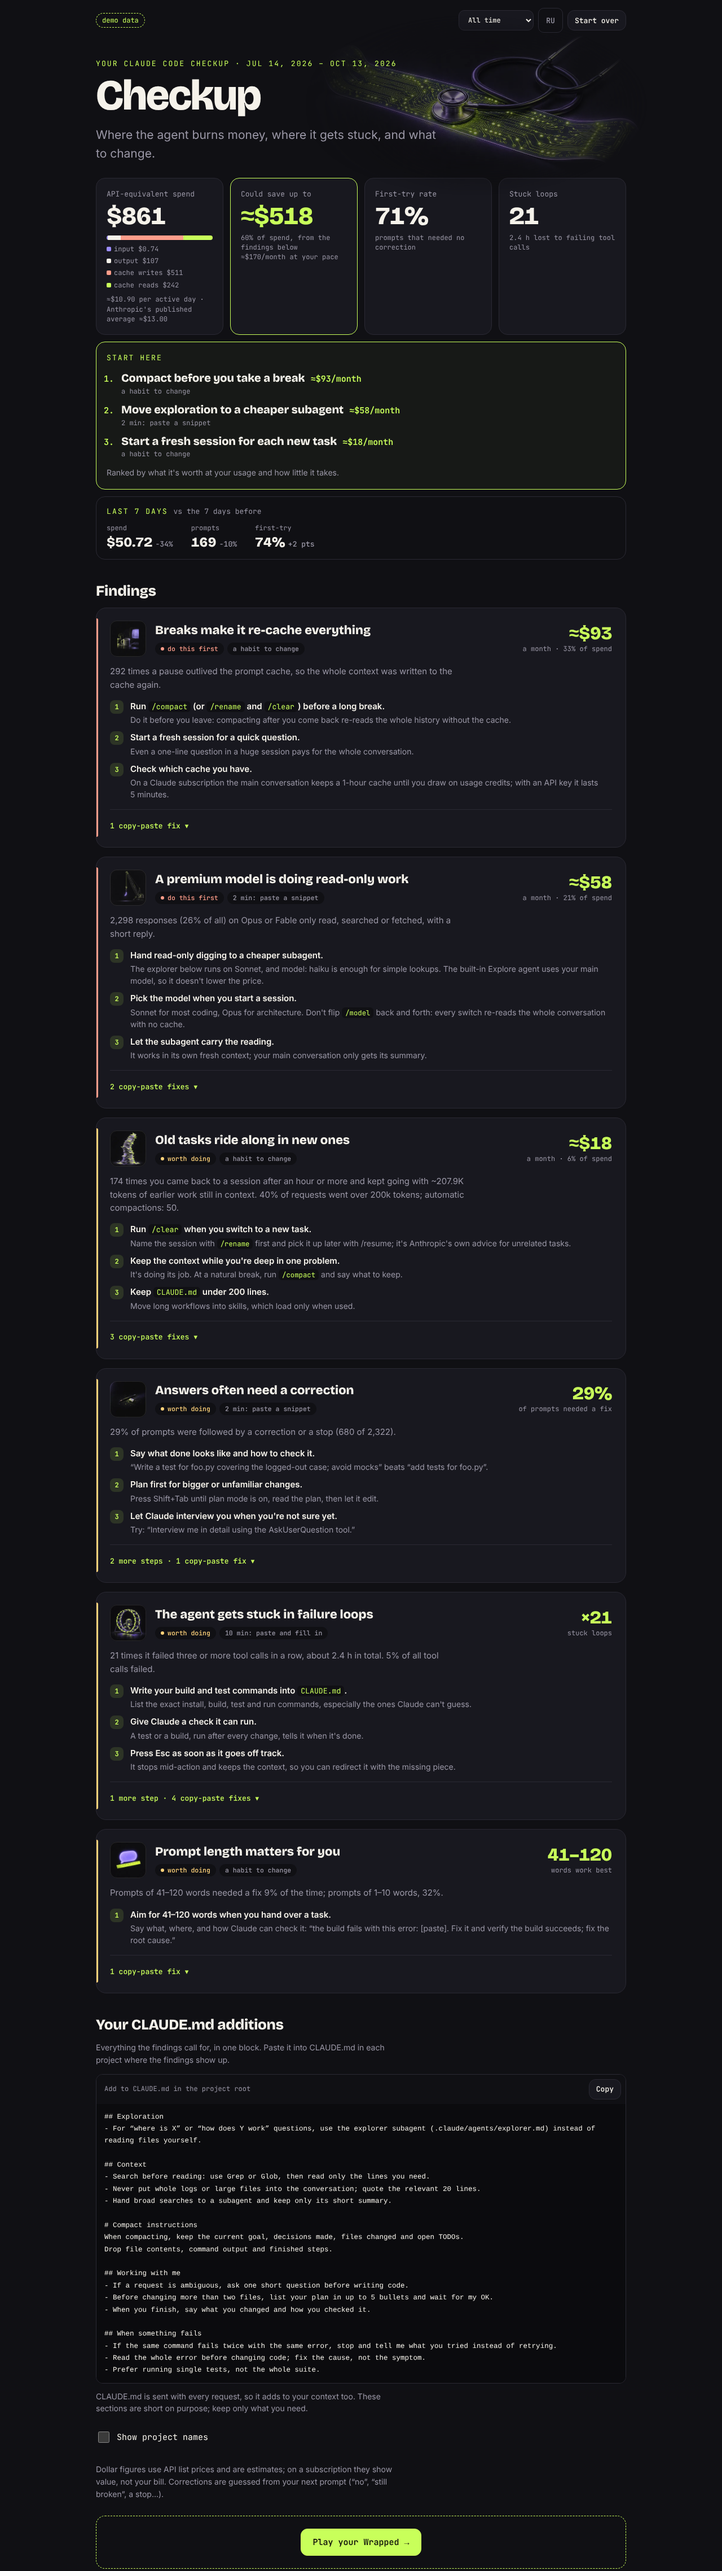
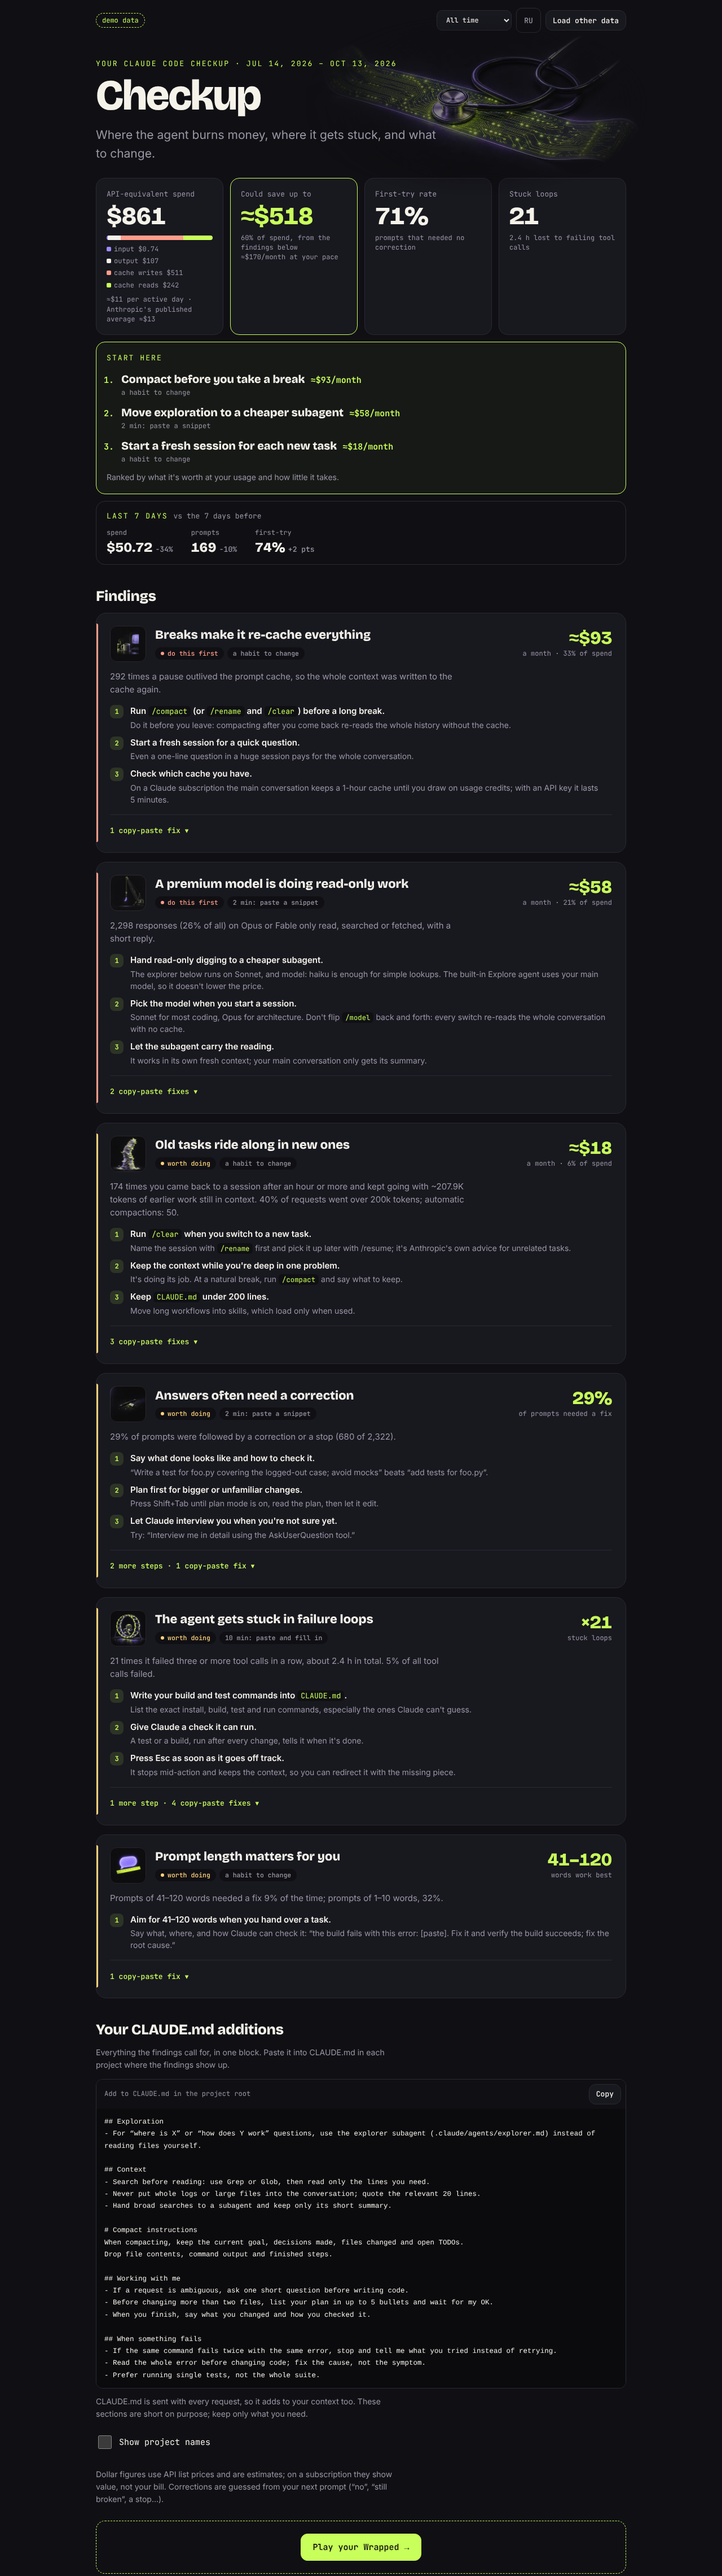
UI/UX pass: accessibility, copy and landing hierarchy
- Landmarks and heading order: report and story are main, one h1 per view
- Commands wrap instead of scrolling; larger targets for plan links, toggle and period
- Clearer landing copy, demo button moved up with a one-line hint, prose in Inter
- Fix the hidden-folder command that rendered empty, and the copy confirmation text
- Image outline on finding art, no press scale under reduced motion
- Refresh README screenshots

Claude-Session: https://claude.ai/code/session_01KKdcVECX1CrKS1fmTgwHWm

diff --git a/js/i18n.js b/js/i18n.js
@@ -3,21 +3,22 @@
 const EN = {
   title: "Claude Code Wrapped",
   tagline: "Where your agent burns money, and how to stop it.",
-  lead: "A checkup of your Claude Code transcripts: dollar figures for oversized context, cache misses and the wrong model, where the agent gets stuck, and concrete fixes. Then your Wrapped story to share.",
-  privacy: "Runs entirely in your browser. Nothing is uploaded.",
+  lead: "A checkup of your Claude Code transcripts: what old context, cache misses and model choice cost you in dollars, where the agent gets stuck, and the fix for each. Then a Wrapped story to share.",
+  privacy: "Runs on your computer. Nothing is uploaded.",
   pickFolder: "Choose ~/.claude/projects",
   pickFiles: "or pick .jsonl files",
   orDrop: "or drop the folder here",
   demo: "See a demo",
+  demoHint: "Sample data, nothing to install.",
   hiddenHint: "Can't see the .claude folder? On macOS press ⌘⇧. in the file dialog, or run:",
   copyCmd: "Copy",
   reading: "Reading {files} of {total} files · {lines} lines",
-  empty: "No Claude Code transcripts found there. Pick ~/.claude/projects (or a folder of .jsonl files).",
+  empty: "No Claude Code transcripts there. They're the .jsonl files in ~/.claude/projects: choose that folder, or run the command above.",
   demoTag: "demo data",
   start: "Start",
   next: "Next",
   prev: "Back",
-  restart: "Start over",
+  restart: "Load other data",
   backToCheckup: "← Checkup",
   slideOf: "Slide {i} of {n}",
   introKicker: "{from} – {to}",
@@ -62,10 +63,10 @@ const EN = {
   periodYear: "This year",
   period90: "Last 90 days",
   period30: "Last 30 days",
-  emptyRange: "Nothing in this period. Try a wider one.",
+  emptyRange: "No activity in this period. Pick a longer one.",
   cliHint: "Fastest: run this in a terminal and your checkup opens here. Add --report to read it in the terminal.",
   localLoading: "Reading transcripts from this computer…",
-  localFailed: "Couldn't reach the local helper. Run the command again and use the link it prints.",
+  localFailed: "Can't read your transcripts: the local helper isn't running anymore. Run the command again and open the new link it prints.",
   langKicker: "you mostly shipped",
   langLine: "{share} of the agent's edits, across {files} files it touched.",
   oddsKicker: "odds and ends",
@@ -285,21 +286,22 @@ const EN = {
 const RU = {
   title: "Claude Code Wrapped",
   tagline: "Где агент сжигает ваши деньги и как это прекратить.",
-  lead: "Чекап ваших транскриптов Claude Code: суммы за раздутый контекст, промахи кэша и неподходящую модель, где агент буксует, и конкретные исправления. А потом — ваш Wrapped, чтобы поделиться.",
-  privacy: "Всё считается в браузере. Ничего не загружается.",
+  lead: "Чекап ваших транскриптов Claude Code: во что в долларах обходятся старый контекст, промахи кэша и выбор модели, где агент буксует, и исправление для каждого случая. А потом — ваш Wrapped, чтобы поделиться.",
+  privacy: "Всё считается на вашем компьютере. Ничего не загружается.",
   pickFolder: "Выбрать ~/.claude/projects",
   pickFiles: "или выбрать файлы .jsonl",
   orDrop: "или перетащите папку сюда",
   demo: "Посмотреть демо",
+  demoHint: "Пример на готовых данных, ничего ставить не нужно.",
   hiddenHint: "Не видно папку .claude? В macOS нажмите ⌘⇧. в окне выбора или выполните:",
   copyCmd: "Скопировать",
   reading: "Читаю {files} из {total} файлов · {lines} строк",
-  empty: "Транскриптов Claude Code там нет. Выберите ~/.claude/projects или папку с файлами .jsonl.",
+  empty: "Транскриптов Claude Code там нет. Это файлы .jsonl в ~/.claude/projects: выберите эту папку или выполните команду выше.",
   demoTag: "демо-данные",
   start: "Начать",
   next: "Дальше",
   prev: "Назад",
-  restart: "Сначала",
+  restart: "Другие данные",
   backToCheckup: "← Чекап",
   slideOf: "Слайд {i} из {n}",
   introKicker: "{from} – {to}",
@@ -344,10 +346,10 @@ const RU = {
   periodYear: "Этот год",
   period90: "Последние 90 дней",
   period30: "Последние 30 дней",
-  emptyRange: "За этот период ничего нет. Выберите период шире.",
+  emptyRange: "За этот период активности нет. Выберите период подлиннее.",
   cliHint: "Быстрее всего: выполните это в терминале, и чекап откроется здесь. С флагом --report он напечатается прямо в терминале.",
   localLoading: "Читаю транскрипты с этого компьютера…",
-  localFailed: "Не получилось связаться с локальным помощником. Запустите команду ещё раз и откройте ссылку, которую она напечатает.",
+  localFailed: "Не получается прочитать транскрипты: локальный помощник уже не работает. Запустите команду ещё раз и откройте новую ссылку, которую она напечатает.",
   langKicker: "больше всего вы писали на",
   langLine: "{share} правок агента, всего он затронул {files} файлов.",
   oddsKicker: "всякое разное",

diff --git a/css/site.css b/css/site.css
@@ -85,7 +85,7 @@ body {
   display: grid;
   grid-template-columns: minmax(0, 1fr) minmax(0, 1.05fr);
   gap: 48px;
-  align-items: center;
+  align-items: start;
   padding-block: 6vh 4vh;
 }
 .hero-copy { min-width: 0; }
@@ -96,7 +96,10 @@ h1 {
   text-wrap: balance;
 }
 .tagline { margin: 14px 0 0; color: var(--lime); font-size: 16px; }
-.lead { max-width: 52ch; margin: 14px 0 26px; color: var(--muted); text-wrap: pretty; }
+.lead { max-width: 52ch; margin: 14px 0 20px; color: var(--muted); font: 16px/1.55 var(--sans); text-wrap: pretty; }
+.demo-row { display: flex; flex-wrap: wrap; gap: 6px 14px; align-items: center; margin: 0 0 26px; color: var(--muted); font: 13px var(--sans); }
+.cli-box p, .drop-hint, .privacy, .hidden-help p, .period-row label, .preview-wrap figcaption { font-family: var(--sans); }
+.cli-box .cmd-row, .hidden-help .cmd-row { font-family: var(--mono); }
 
 .drop {
   display: grid;
@@ -113,13 +116,15 @@ h1 {
 .pick-error { margin: 0; color: #ff9d8a; font-size: 13px; min-height: 0; }
 .pick-error:empty { display: none; }
 .progress { margin: 0; color: var(--lime); font-variant-numeric: tabular-nums; }
-.demo { margin-top: 14px; }
 
 .cli-box { margin: 0 0 18px; padding: 14px 16px; border-radius: 14px; background: var(--panel); color: var(--muted); font-size: 13px; }
 .cli-box p { margin: 0 0 8px; }
+.cli-box .cmd-row { margin: 0; }
+.cli-box .status:not(:empty) { margin-top: 8px; }
 .cli-box .status { margin: 0; }
 .cli-box .cmd { background: var(--bg); color: var(--lime); }
 
+.period-row label { display: inline-flex; align-items: center; min-height: 44px; }
 .period-row { display: flex; flex-wrap: wrap; gap: 10px; align-items: center; margin: 16px 0 0; color: var(--muted); font-size: 13px; }
 .period {
   min-height: 44px;
@@ -139,16 +144,16 @@ h1 {
 .cmd-row { display: flex; flex-wrap: wrap; gap: 8px; align-items: center; }
 .cmd {
   max-width: 100%;
-  overflow-x: auto;
+  overflow-wrap: anywhere;
   padding: 8px 10px;
   border-radius: 8px;
   background: var(--panel);
   color: var(--ink);
-  white-space: nowrap;
 }
 .status { min-height: 1.2em; margin: 0; color: var(--lime); font-size: 13px; }
+.cli-box .status:empty, .hidden-help .status:empty { min-height: 0; }
 
-.preview-wrap { position: relative; isolation: isolate; margin: 0; min-width: 0; }
+.preview-wrap { position: relative; isolation: isolate; margin: 4vh 0 0; min-width: 0; }
 /* Illustration behind the demo card; faded at the edges so it never competes with the card. */
 .preview-wrap::before {
   content: "";
@@ -274,7 +279,7 @@ h1 {
 /* Project names stay blurred until the person chooses to show them. */
 body:not(.show-names) .project { color: transparent; text-shadow: 0 0 9px var(--ink); user-select: none; }
 .toggle { display: inline-flex; gap: 10px; align-items: center; margin-top: 18px; min-height: 44px; cursor: pointer; }
-.toggle input { width: 20px; height: 20px; accent-color: var(--lime); }
+.toggle input { width: 24px; height: 24px; accent-color: var(--lime); }
 
 .portrait { display: block; width: min(200px, 46vw); height: auto; aspect-ratio: 1; margin: 18px 0 4px; border: 1px solid var(--line); border-radius: 18px; }
 .card { display: block; width: 100%; height: auto; margin-top: 14px; border: 1px solid var(--line); border-radius: 14px; }
@@ -364,7 +369,7 @@ a.btn { text-decoration: none; }
 .plan ol { margin: 12px 0 0; padding-left: 22px; display: grid; gap: 10px; }
 .plan li { padding-left: 4px; }
 .plan li::marker { color: var(--lime); font-weight: 600; }
-.plan a { color: var(--ink); font: 800 clamp(17px, 2vw, 20px)/1.3 var(--display); text-decoration: none; }
+.plan a { display: inline-block; padding-block: 2px; color: var(--ink); font: 800 clamp(17px, 2vw, 20px)/1.3 var(--display); text-decoration: none; }
 .plan a:hover { text-decoration: underline; text-underline-offset: 4px; }
 .plan-gain { display: inline-block; margin-left: 10px; color: var(--lime); font-weight: 600; }
 .plan-effort { display: block; color: var(--muted); font-size: 12px; }
@@ -409,12 +414,14 @@ a.btn { text-decoration: none; }
   width: 64px;
   height: 64px;
   border-radius: 12px;
+  outline: 1px solid rgba(255, 255, 255, 0.1);
+  outline-offset: -1px;
   object-fit: cover;
   outline: 1px solid rgba(255, 255, 255, 0.1);
   outline-offset: -1px;
 }
 .finding-title { min-width: 0; }
-.finding h4 { margin: 0; font: 800 clamp(19px, 2.3vw, 22px)/1.2 var(--display); text-wrap: balance; }
+.finding h3 { margin: 0; font: 800 clamp(19px, 2.3vw, 22px)/1.2 var(--display); text-wrap: balance; }
 .pills { display: flex; flex-wrap: wrap; gap: 6px; margin: 8px 0 0; }
 .pill { display: inline-flex; align-items: center; gap: 6px; padding: 3px 10px; border-radius: 999px; background: var(--bg); color: var(--muted); font: 500 11.5px/1.4 var(--mono); }
 .pill-level::before { content: ""; width: 6px; height: 6px; border-radius: 50%; background: currentColor; }
@@ -488,4 +495,5 @@ a.btn { text-decoration: none; }
   .bar-fill { animation: none; }
   .btn,
   .bars-top > span > span { transition: none; }
+  .btn:active { transform: none; }
 }

diff --git a/js/report.js b/js/report.js
@@ -18,7 +18,7 @@ export function renderReport(s) {
   return `
     <header class="report-head">
       <p class="kicker">${t("checkupKicker")} · ${date(s.from)} – ${date(s.to)}</p>
-      <h2 class="display">${t("checkup")}</h2>
+      <h1 class="display">${t("checkup")}</h1>
       <p class="line">${t("checkupLead")}</p>
     </header>
 
@@ -33,7 +33,7 @@ export function renderReport(s) {
 
     ${week(c.week)}
 
-    <h3 class="section-title">${t("ckFindings")}</h3>
+    <h2 class="section-title">${t("ckFindings")}</h2>
     ${main.length ? `<ol class="findings">${main.map(finding).join("")}</ol>` : `<p class="line">${t("ckNoFindings")}</p>`}
     ${minor.length ? `
       <details class="minor">
@@ -45,7 +45,7 @@ export function renderReport(s) {
     ${allClaudeMd(c.findings)}
 
     ${c.healthy.length ? `
-      <h3 class="section-title">${t("ckHealthy")}</h3>
+      <h2 class="section-title">${t("ckHealthy")}</h2>
       <ul class="healthy">${c.healthy.map((h) => `<li>${esc(describeHealthy(h))}</li>`).join("")}</ul>` : ""}
 
     <label class="toggle"><input type="checkbox" class="show-names" id="report-show-names"> ${t("showNames")}</label>
@@ -116,7 +116,7 @@ function finding(f) {
       <div class="finding-top">
         <img class="finding-art" src="img/checkup/${f.id}.webp" alt="" width="320" height="320" loading="lazy" onerror="this.remove()">
         <div class="finding-title">
-          <h4>${esc(d.title)}</h4>
+          <h3>${esc(d.title)}</h3>
           <p class="pills"><span class="pill pill-level">${t("ckLevel")[f.level]}</span><span class="pill">${t("ckEffort")[f.effort]}</span></p>
         </div>
         ${stat ? `<p class="finding-stat"><strong>${esc(stat.value)}</strong><span>${esc(stat.label)}</span></p>` : ""}
@@ -160,7 +160,7 @@ function allClaudeMd(findings) {
   if (!text) return "";
   return `
     <section class="all-md">
-      <h3 class="section-title">${t("allMdTitle")}</h3>
+      <h2 class="section-title">${t("allMdTitle")}</h2>
       <p class="sub">${t("allMdLead")}</p>
       ${fixBlock({ kind: "claudemd", text })}
       <p class="sub">${t("allMdNote")}</p>

diff --git a/index.html b/index.html
@@ -30,6 +30,7 @@
         <h1 id="title" data-t="title">Claude Code Wrapped</h1>
         <p class="tagline" data-t="tagline"></p>
         <p class="lead" data-t="lead"></p>
+        <p class="demo-row"><button class="btn demo" type="button" data-t="demo"></button> <span data-t="demoHint"></span></p>
 
         <div class="cli-box">
           <p data-t="cliHint"></p>
@@ -57,8 +58,6 @@
           </select>
         </p>
 
-        <button class="btn demo" type="button" data-t="demo"></button>
-
         <p class="privacy"><span aria-hidden="true">●</span> <span data-t="privacy"></span></p>
         <div class="hidden-help">
           <p data-t="hiddenHint"></p>
@@ -75,7 +74,7 @@
     <footer class="foot" data-t="unofficial"></footer>
   </main>
 
-  <section class="report" aria-label="Checkup" hidden>
+  <main class="report" aria-label="Checkup" hidden>
     <div class="report-bar">
       <span class="demo-tag" data-t="demoTag"></span>
       <select id="period-report" class="period period-small" aria-label="Period">
@@ -89,9 +88,10 @@
     </div>
     <p class="view-status" role="status"></p>
     <div class="report-body"></div>
-  </section>
+  </main>
 
-  <section class="story" aria-label="Story" hidden>
+  <main class="story" aria-label="Story" hidden>
+    <h1 class="sr-only" data-t="title">Claude Code Wrapped</h1>
     <div class="story-top">
       <div class="bars-top" aria-hidden="true"></div>
       <div class="story-meta">
@@ -111,7 +111,7 @@
       <button class="btn prev" type="button" data-t="prev"></button>
       <button class="btn btn-hot next" type="button" data-t="next"></button>
     </nav>
-  </section>
+  </main>
 
   <textarea id="fallback-text" class="fallback-text" aria-label="Text to copy" rows="3" hidden></textarea>
 

diff --git a/js/main.js b/js/main.js
@@ -49,8 +49,8 @@ for (const toggle of document.querySelectorAll(".lang-toggle")) {
     else if (current && !report.hidden) showReport(current);
   });
 }
-$(".copy-cmd").addEventListener("click", () => copy(COPY_CMD, $(".cmd-status"), t("copied")));
-$(".copy-cli").addEventListener("click", () => copy(CLI_CMD, $(".cli-status"), t("copied")));
+$(".copy-cmd").addEventListener("click", () => copy(COPY_CMD, $(".cmd-status"), t("fixCopied")));
+$(".copy-cli").addEventListener("click", () => copy(CLI_CMD, $(".cli-status"), t("fixCopied")));
 
 // All period pickers stay in sync; changing one after loading re-reads the data in place.
 for (const select of document.querySelectorAll(".period")) {
@@ -339,7 +339,7 @@ function savedLang() {
 
 function renderStatic() {
   for (const node of document.querySelectorAll("[data-t]")) node.textContent = t(node.dataset.t);
-  $(".cmd").textContent = COPY_CMD;
+  $(".hidden-help .cmd").textContent = COPY_CMD;
   $(".cli").textContent = CLI_CMD;
   for (const toggle of document.querySelectorAll(".lang-toggle")) {
     toggle.textContent = lang === "ru" ? "EN" : "RU";
